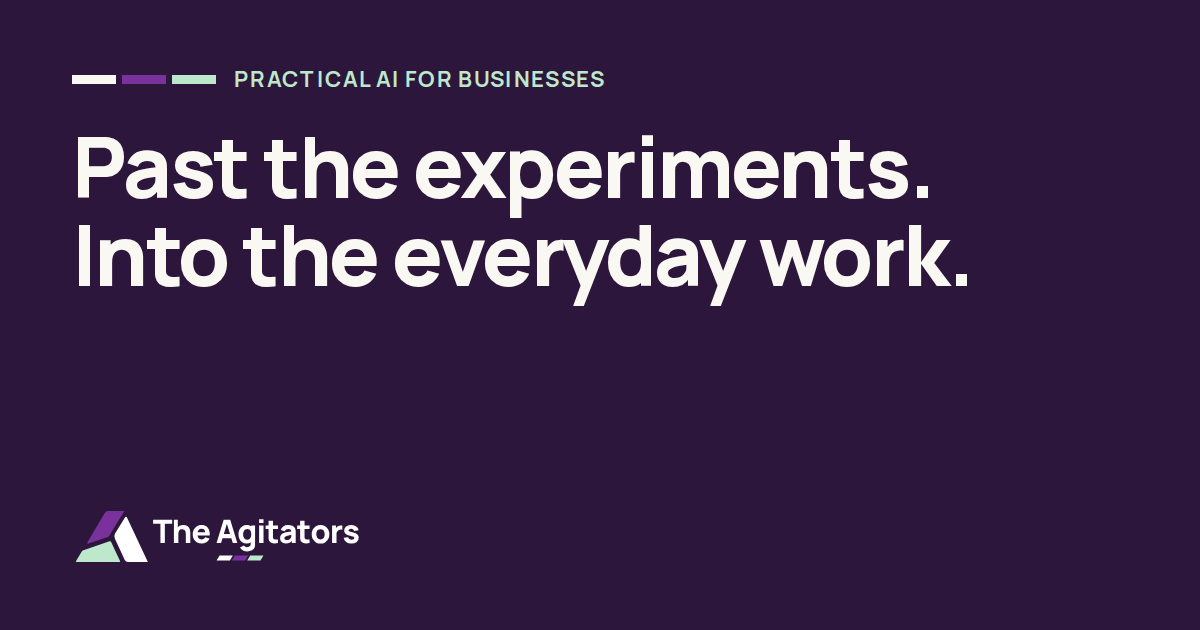
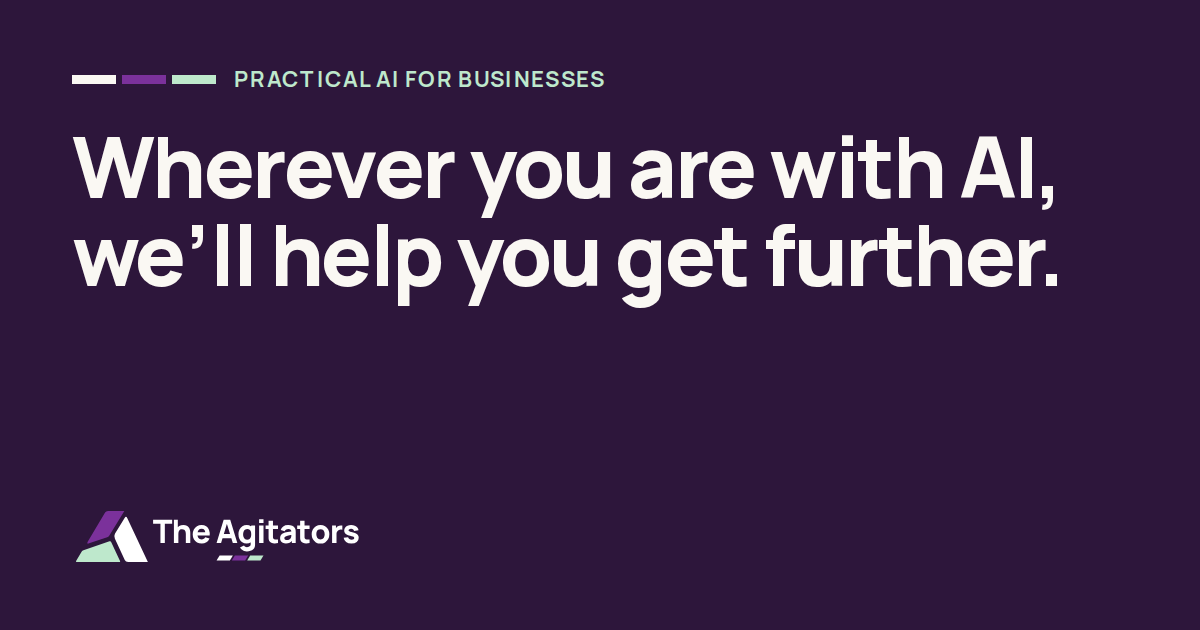
Launch: switch off prelaunch, set the tagline, keep pages.dev out of search
- prelaunch is false: pages are indexable and the footer notice goes.
- Tagline is "Practical AI for businesses" (tab, search and share titles);
  the default share image now pairs it with the hero headline.
- /tips gets its own share image.
- X-Robots-Tag: noindex on theagitators.pages.dev and preview deployments.
- README cutover checklist updated.

Claude-Session: https://claude.ai/code/session_01ToMb7PMuwWizzxoXCiExf4

Changed region(s): [[0.0617, 0.2111, 0.8942, 0.5127]]

diff --git a/src/content/site.ts b/src/content/site.ts
@@ -4,13 +4,13 @@ import type { NavItem } from "./types";
  * The launch switch. While true, every page asks search engines not to index
  * it and the footer carries a prelaunch notice. Set to false on cutover day.
  */
-export const prelaunch = true;
+export const prelaunch = false;
 
 export const site = {
   // Brand guidelines: standard title case, never "AGI" in capitals.
   name: "The Agitators",
-  // The old hero line. Replacement awaiting founder approval: see "Before cutover" in the README.
-  tagline: "Past the experiments. Into the everyday work.",
+  // Browser tab, search result and share titles. The share image pairs it with the hero headline.
+  tagline: "Practical AI for businesses",
   positioningLine: "Practical AI for businesses.",
   description:
     "Practical AI for founder-led businesses and SMEs: we find where AI earns its place, build the tools and train your people to run them.",

diff --git a/src/app/tips/page.tsx b/src/app/tips/page.tsx
@@ -12,7 +12,12 @@ export const metadata: Metadata = {
   title: tipsIntro.title,
   description,
   alternates: { canonical: "/tips" },
-  openGraph: { title: tipsIntro.title, description, url: "/tips" },
+  openGraph: {
+    title: tipsIntro.title,
+    description,
+    url: "/tips",
+    images: [{ url: "/og/tips.png", width: 1200, height: 630, alt: tipsIntro.title }],
+  },
 };
 
 export default function TipsPage() {

diff --git a/README.md b/README.md
@@ -235,22 +235,32 @@ is a `mailto:` link built from `site.email` in `src/content/site.ts`. The same
 
 ## Launch switch, search and AI visibility
 
-- **`prelaunch`** in `src/content/site.ts` is the launch switch. While `true`,
-  every page carries `noindex` and the footer shows a prelaunch notice. Set it
-  to `false` on cutover day; nothing else needs to change.
-- **Before cutover.** Still to do before the switch to theagitators.com.au:
-  - [ ] **Replace the site tagline** (`site.tagline` in `src/content/site.ts`),
-    once the founders approve the new line. It's still the old hero line,
-    "Past the experiments. Into the everyday work.", and appears in the browser
-    tab title, the share title and the default share image. After changing
-    it, regenerate the share images (command below) and update the LinkedIn
-    company page tagline to match.
-  - [ ] Set `prelaunch` to `false`. Once live, only case studies marked
-    `status: "approved"` show. None are yet, so get sign-off first or the
-    section launches empty.
-  - [ ] Add the custom domain in Cloudflare Pages (see Deploying, step 5). The
-    tips QR code (`public/qr/`) points at theagitators.com.au/tips and only
-    works from then.
+- **`prelaunch`** in `src/content/site.ts` is the launch switch, now `false`.
+  Set it back to `true` to put noindex on every page, show the prelaunch
+  notice in the footer and show draft case studies (`status: "draft"`) again.
+- **pages.dev stays out of search.** `public/_headers` sends
+  `X-Robots-Tag: noindex` on theagitators.pages.dev and every preview
+  deployment, so only theagitators.com.au is indexed.
+- **Cutover checklist** (October 2026):
+  - [x] Case studies approved; tagline set to "Practical AI for businesses"
+    (the share image pairs it with the hero headline); `prelaunch` off.
+  - [ ] Cloudflare Pages: production branch is the launch branch and its
+    latest deployment succeeded.
+  - [ ] Cloudflare DNS: note the apex and `www` records that point at Vercel
+    (for rollback), then delete them. Leave MX, SPF, DKIM, DMARC and the
+    google-site-verification TXT record alone.
+  - [ ] Cloudflare Pages → Custom domains: add `theagitators.com.au` and
+    `www.theagitators.com.au`.
+  - [ ] Cloudflare → Rules → Redirect Rules: `www.theagitators.com.au` →
+    `https://theagitators.com.au`, 301, path and query kept.
+  - [ ] Vercel: remove the domain from the holding project (keep the project
+    for rollback).
+  - [ ] Check: the domain serves the site, `www` and `http` redirect, /tips and
+    the tips QR code work, a test email reaches info@.
+  - [ ] Afterwards: submit `/sitemap.xml` in Google Search Console; point the
+    LinkedIn company page at the domain and set its tagline to match.
+  - Rollback: remove the custom domains from Pages, restore the noted DNS
+    records, and add the domain back to the Vercel holding project.
 - **Metadata.** Each page has a canonical URL, title, description and a
   1200×630 share image from `public/og/`. Regenerate the images after changing
   a case study headline or adding one:
